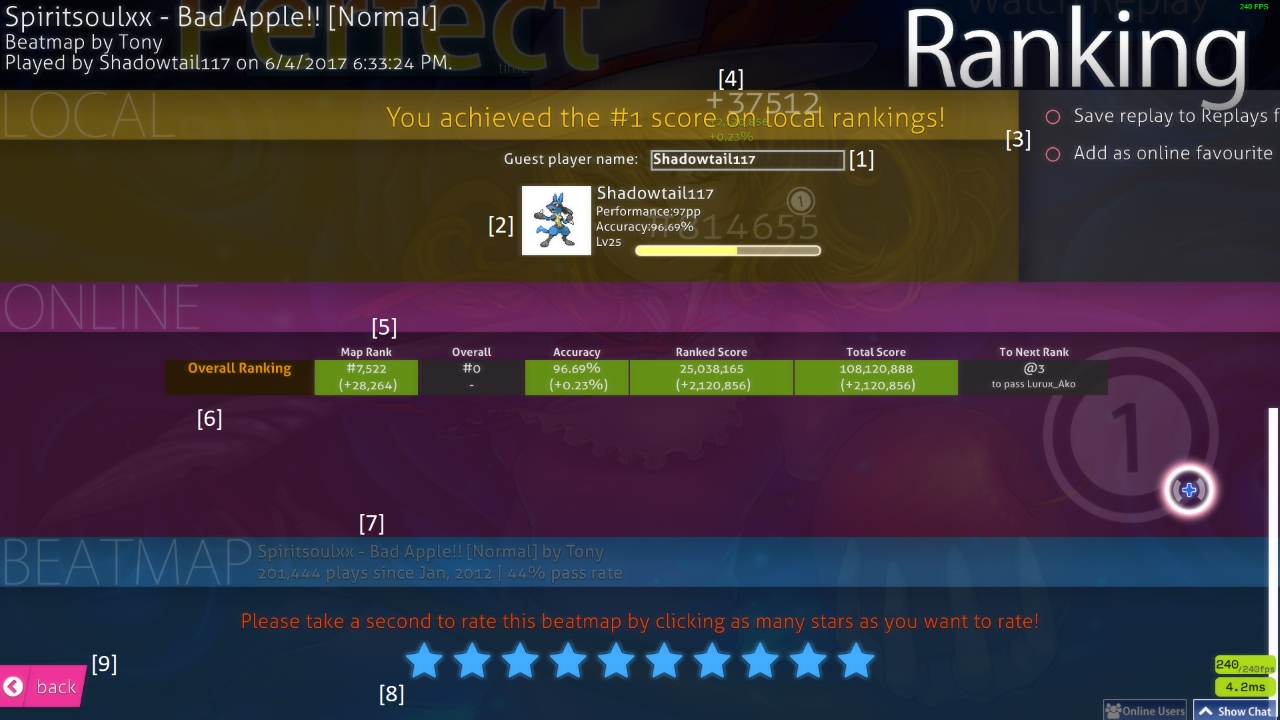
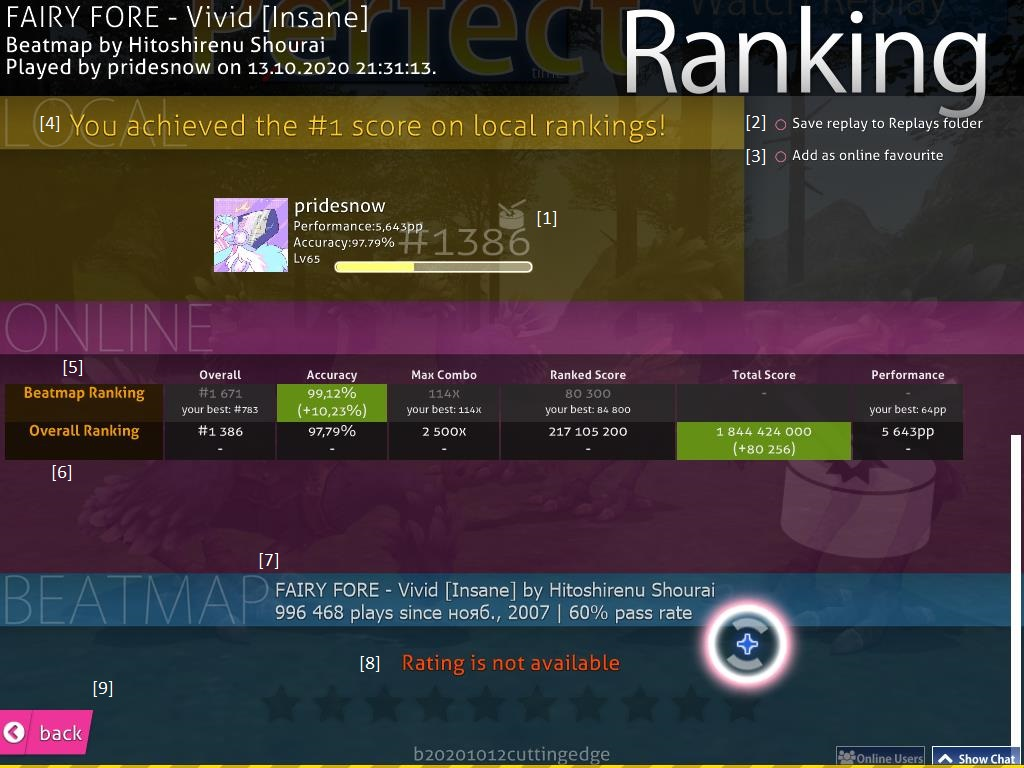
Update wiki "Interface"
Rewrited "Online Leaderboard" section on the "Interface" wiki, also I changed the picture.

Changed region(s): [[0.0, 0.0, 1.0, 0.3972], [0.0, 0.3972, 1.0, 1.0], [0.0, 0.7028, 0.8125, 0.9472]]

diff --git a/wiki/Interface/en.md b/wiki/Interface/en.md
@@ -291,20 +291,24 @@ Below are the grade screens of the other game modes.
 
 This is your online leaderboard. You can go here by scrolling down from the results screen. Your Local Scoreboard will show your name and the score as usual.
 
-1. You can change the name to record for this replay here.
-2. Your player bar. It shows your [PP](/wiki/Performance_Points), Global Rank, Total Score, Overall [Accuracy](/wiki/Accuracy), and level bar.
-3. Your options regarding the Beatmap.
-   1. Export Replay as `.osr`: Save the replay that can be used online.
-   2. Online Favourite: Make the Beatmap as your Online Favourite. It will show on your online profile under Beatmaps->Favourite Beatmaps
-4. Here is the difference made to your profile. This shows how far you've moved up or down the Global Ranking, how much was added to your Total Score, and how much your Overall Accuracy changed. The text fades out rather quickly, so don't miss it!
-5. Self-explanatory. Will not appear if offline, or if the beatmap is not uploaded.
+1. Your player bar. It shows your [PP](/wiki/Performance_Points), Global Rank, Total Score, Overall [Accuracy](/wiki/Accuracy), and level bar.
+2. Export Replay as `.osr`: Save the replay that can be used online.
+3. Online Favourite: Make the Beatmap as your Online Favourite. It will show on
+5. Self-explanatory (Beatmap Ranking). Will not appear if offline, or if the beatmap is not uploaded.
    1. Map Rank: Your Ranking on the map. The ranking includes replays that featured mods, even if you didn't use any yourself.
    2. Overall: Your profile standing on the gamemode you just played, not just the beatmap.
    3. Accuracy: Will only be counted when your old score is surpassed. Accuracy is the average of all passed beatmaps.
-   4. Ranked Score: Your Ranked Score. If it's an approved song, it will not increase at all.
-   5. Total Score: Grand total score. This will always increase even if you fail or don't surpass a high score in a beatmap. This counts towards your level.
-   6. To Next Rank: How much score you need to move your current map ranking position up.
-6. Same as #4, but it is reserved for monthly [Ranking Charts](https://osu.ppy.sh/rankings/osu/charts)
+   4. Ranked Score: Your Ranked Score on map. If it's an unranked song, it will not increase at all.
+   5. Max Combo: Your maximum combo on the map you played. If it's an unranked song, it will not increase at all.
+   6. Total Score: Grand total score. This will always increase even if you fail or don't surpass a high score in a beatmap. This counts towards your level.
+   7. Performance: The received number of PP (Performance Points) on map you played. If it's an unranked (or an approved) song, it will not increase at all.
+6. Self-explananatory (Overall Ranking):
+   1. Overall: Your global ranking in the world.
+   2. Accuracy: Your average accuracy obtained from the calculations of the maps you played.
+   3. Max Combo: Max Combo on your profile (Calculated based on the largest combo in your maps).
+   4. Ranked Score: The number of points earned from all ranked maps that you have ever played on your profile.
+   5. Same as #6.4 but it takes into account all types of ranking (Loved, Ranked, Approved, Unranked), underplayed and failed maps. Not submitted beatmaps is not taken into account.
+   6. The total amount of pp in your profile. In depending of the received result, it can increase or decrease.
 7. Beatmap song with its history of plays and pass rate.
 8. Beatmap Rating. Use your personal discretion based on whether you enjoy the beatmap or not. Best left alone if you can't decide.
 9. Return to Song Selection.
